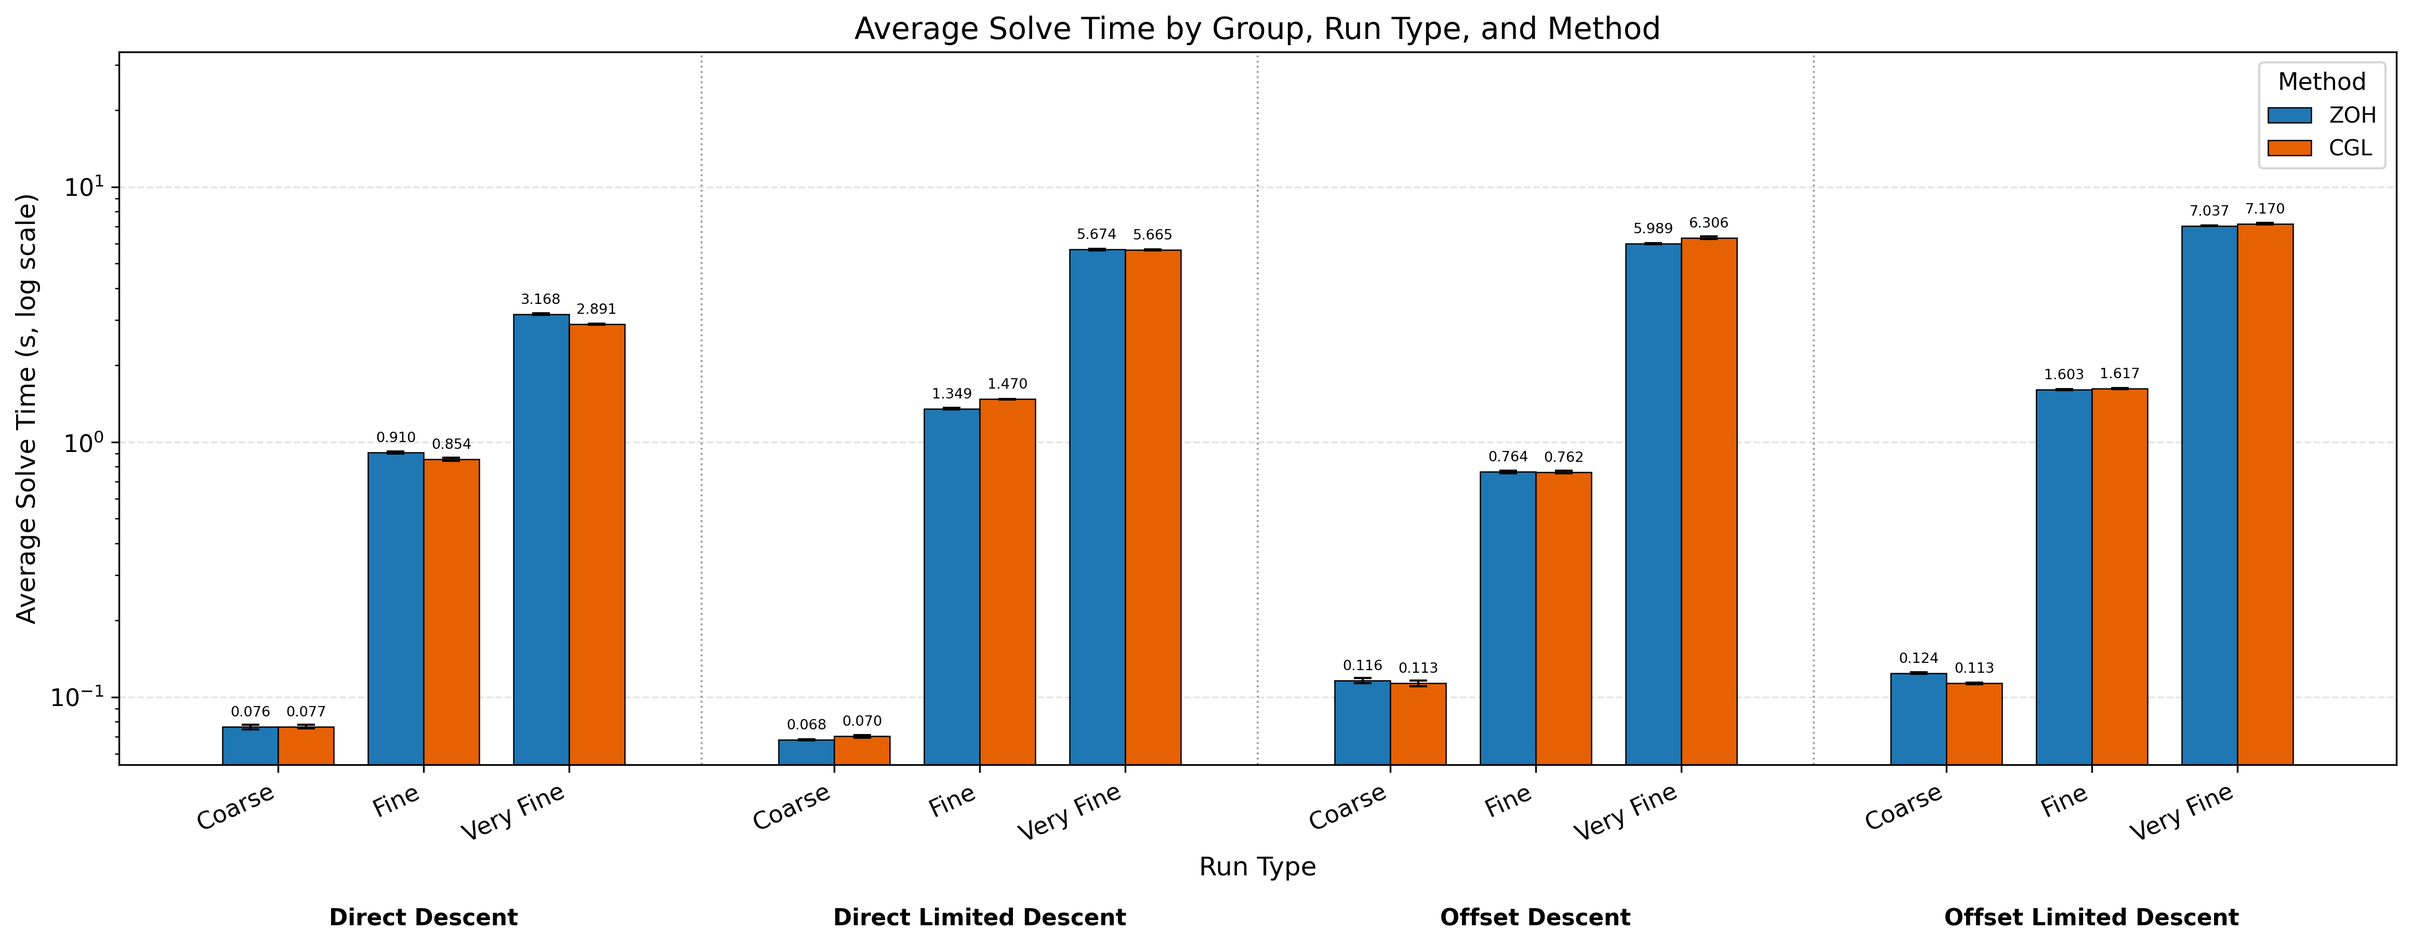
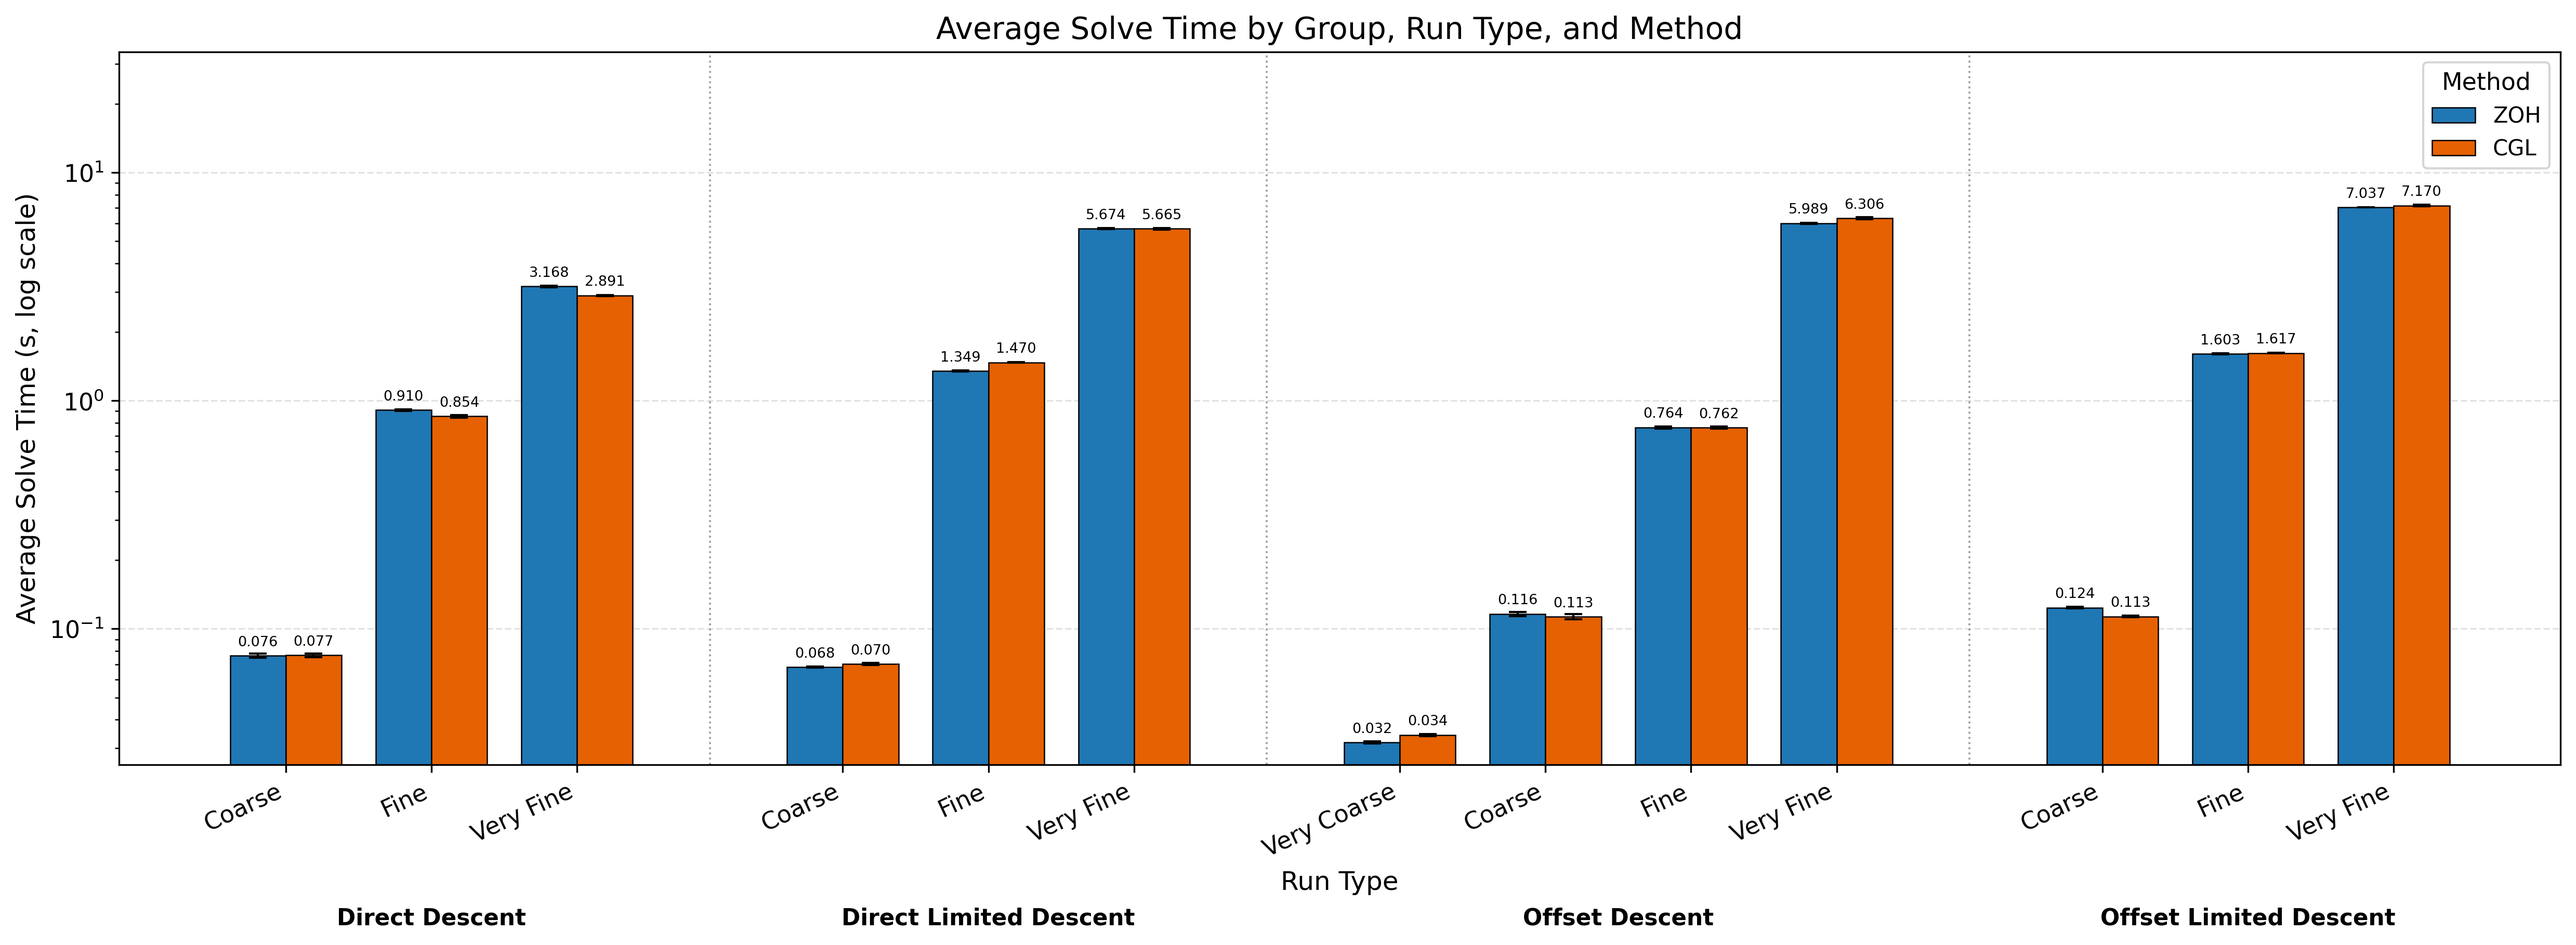
add graph support for very course

diff --git a/Algorithms/LosslessConvexification/rust_lossless/src/group_compare_rust_lossless.py b/Algorithms/LosslessConvexification/rust_lossless/src/group_compare_rust_lossless.py
@@ -4,7 +4,14 @@ import math
 import re
 from pathlib import Path
 
-RUN_TYPE_ORDER = {"ultra_short": 0, "very_short": 1, "short": 2, "med": 3, "long": 4}
+RUN_TYPE_ORDER = {
+    "extreme_short": 0,
+    "ultra_short": 1,
+    "very_short": 2,
+    "short": 3,
+    "med": 4,
+    "long": 5,
+}
 METHOD_ORDER = {"zoh": 0, "cgl": 1}
 
 
@@ -172,7 +179,7 @@ def parse_args() -> argparse.Namespace:
     parser = argparse.ArgumentParser(
         description=(
             "Collect one zoh and one cgl comparison result from each run type "
-            "(default: ultra_short, very_short, short, med, long) into a single "
+            "(default: extreme_short, ultra_short, very_short, short, med, long) into a single "
             "group_comparison_results.csv."
         )
     )
@@ -183,8 +190,8 @@ def parse_args() -> argparse.Namespace:
     parser.add_argument(
         "--run-types",
         nargs="+",
-        default=["ultra_short", "very_short", "short", "med", "long"],
-        help="Run types to include (default: ultra_short very_short short med long)",
+        default=["extreme_short", "ultra_short", "very_short", "short", "med", "long"],
+        help="Run types to include (default: extreme_short ultra_short very_short short med long)",
     )
     parser.add_argument(
         "--run-id",

diff --git a/Algorithms/LosslessConvexification/rust_lossless/src/plot_rmse_split_by_method.py b/Algorithms/LosslessConvexification/rust_lossless/src/plot_rmse_split_by_method.py
@@ -8,17 +8,20 @@ import matplotlib.pyplot as plt
 
 METHODS = ("zoh", "cgl")
 RUN_TYPE_REMAP = {
+    "extreme_short": "very_coarse",
     "ultra_short": "coarse",
     "short": "fine",
     "long": "very_fine",
 }
-RUN_TYPES = ("coarse", "fine", "very_fine")
+RUN_TYPES = ("very_coarse", "coarse", "fine", "very_fine")
 RUN_TYPE_LABELS = {
+    "very_coarse": "Very Coarse",
     "coarse": "Coarse",
     "fine": "Fine",
     "very_fine": "Very Fine",
 }
 RUN_TYPE_COLORS = {
+    "very_coarse": "#4C78A8",
     "coarse": "#1B9E77",
     "fine": "#7570B3",
     "very_fine": "#D95F02",
@@ -132,13 +135,14 @@ def plot_metric(
     )
 
     n_groups = len(groups)
-    group_spacing = 1.18
+    group_spacing = 1.45
     split_gap = 1.25
     bar_width = 0.30
     run_offsets = {
-        "coarse": -bar_width,
-        "fine": 0.0,
-        "very_fine": bar_width,
+        "very_coarse": -1.5 * bar_width,
+        "coarse": -0.5 * bar_width,
+        "fine": 0.5 * bar_width,
+        "very_fine": 1.5 * bar_width,
     }
 
     half_span = (n_groups - 1) * group_spacing

diff --git a/Algorithms/LosslessConvexification/rust_lossless/src/plot_avg_solve_time_grouped.py b/Algorithms/LosslessConvexification/rust_lossless/src/plot_avg_solve_time_grouped.py
@@ -9,17 +9,20 @@ import matplotlib.pyplot as plt
 METHODS = ("zoh", "cgl")
 METHOD_COLORS = {"zoh": "#1F77B4", "cgl": "#E66101"}
 RUN_TYPE_REMAP = {
+    "extreme_short": "very_coarse",
     "ultra_short": "coarse",
     "short": "fine",
     "long": "very_fine",
 }
-TARGET_RUN_TYPES = ("coarse", "fine", "very_fine")
+TARGET_RUN_TYPES = ("very_coarse", "coarse", "fine", "very_fine")
 RUN_TYPE_ORDER = {
-    "coarse": 0,
-    "fine": 1,
-    "very_fine": 2,
+    "very_coarse": 0,
+    "coarse": 1,
+    "fine": 2,
+    "very_fine": 3,
 }
 RUN_TYPE_LABELS = {
+    "very_coarse": "Very Coarse",
     "coarse": "Coarse",
     "fine": "Fine",
     "very_fine": "Very Fine",

diff --git a/Algorithms/LosslessConvexification/rust_lossless/src/prepare_group_comparison_graph_data.py b/Algorithms/LosslessConvexification/rust_lossless/src/prepare_group_comparison_graph_data.py
@@ -8,6 +8,7 @@ from pathlib import Path
 
 METHOD_ORDER = {"zoh": 0, "cgl": 1}
 RUN_TYPE_REMAP = {
+    "extreme_short": "very_coarse",
     "ultra_short": "coarse",
     "very_short": "less_coarse",
     "short": "fine",
@@ -15,12 +16,13 @@ RUN_TYPE_REMAP = {
     "long": "very_fine",
 }
 RUN_TYPE_ORDER = {
-    "coarse": 0,
-    "less_coarse": 1,
-    "less_fine": 2,
-    "fine": 3,
-    "very_fine": 4,
-    "extreme_long": 5,
+    "very_coarse": 0,
+    "coarse": 1,
+    "less_coarse": 2,
+    "less_fine": 3,
+    "fine": 4,
+    "very_fine": 5,
+    "extreme_long": 6,
 }
 
 
